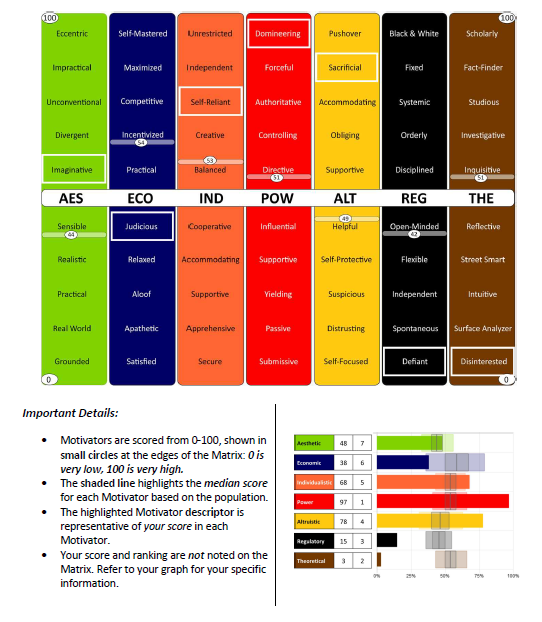
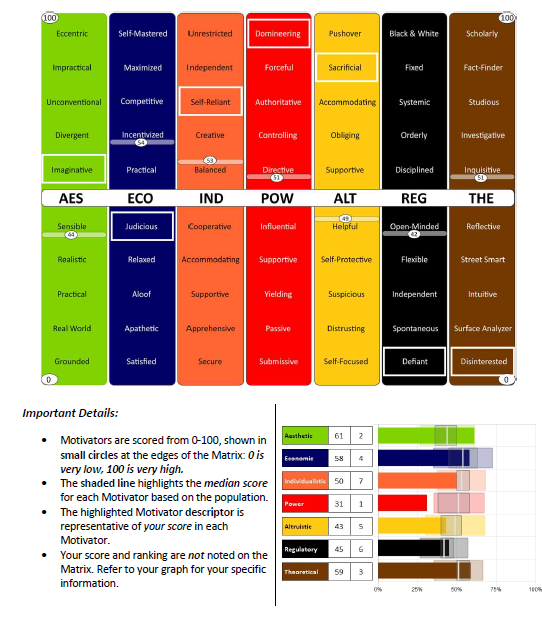
Fixing motivators update page and scale up webinar page title & description

Changed region(s): [[0.5018, 0.672, 0.9446, 0.9469], [0.9742, 0.9469, 1.0, 0.9775]]

diff --git a/pages/blog/motivators-update-10-2020.vue b/pages/blog/motivators-update-10-2020.vue
@@ -56,6 +56,17 @@
                             </li><br/>
 
                             <li>
+                                <strong>Update to the Motivators Graph</strong><br/>
+                                Your individual graph has changed slightly, based on the new population scores. The white line is the median, grey box is 
+                                average, the colored box is the majority of the population, and shows 2 standard deviations from the median.<br/><br/>
+
+                                If your score falls in the grey box, your score is average. If your score falls in the color-shaded box you are like most 
+                                of the population, and within 2 standard deviations and therefore, not extreme in your Motivator. If your score is in the 
+                                white space either to the right or left of the color-shaded box, you are more intense in those motivators, whether high or 
+                                low.
+                            </li><br/>
+
+                            <li>
                                 <strong>Updated Word Matrix Page</strong><br/>
                                 The Word Matrix has been modified to include some visual elements to make it more straightforward and user-friendly. You’ll 
                                 notice the Dimension names have moved to the middle of the Word Matrix, a “0” and “100” score bubble located at the top and the 

diff --git a/pages/resources/scale-up.vue b/pages/resources/scale-up.vue
@@ -160,12 +160,12 @@
         },
         head() {
             return {
-                title: 'HireSense Webinar | Assessments 24x7',
+                title: 'Scale Up Your Coaching Business with DISC | Assessments 24x7',
                 meta: [
                     {
                         hid: 'description',
                         name: 'description',
-                        content: 'In this webinar, we give an overview of HireSense and all the fantastic features that will streamline your hiring and selection process.'
+                        content: 'Whether you’re just getting started in your coaching business or you’re an established coach with a large client base, implementing DISC assessments correctly could be a game changer for your business.'
                     }
                 ]
             }
